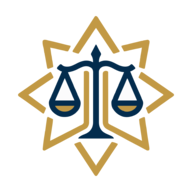
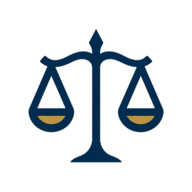
Hide reply actions until settled, add feedback to like/dislike/share
- The disclaimer footer and the per-message copy/like/dislike/share
  row were rendering the moment a message existed, including the
  "searching..."/streaming phase before any real answer text — both
  now wait until the reply is no longer streaming and actually has
  text.
- Thumbs up/down now toggle a visible active state (filled icon,
  tinted background); clicking the active one again clears it. Share
  now does something: native share sheet when available, clipboard
  copy with the same checkmark flash as Copy otherwise. Previously
  only Copy gave any feedback at all.
- Reduced the top padding above the first message — a prior pass
  added a bit too much.
- PWA/home-screen icons (manifest icons, apple touch icon) now use
  the same scale-only mark on a round backplate as the browser
  favicon, instead of the old full 8-point-star design.

Claude-Session: https://claude.ai/code/session_016AsFwuHiPJWX6tJAgmt5pq

Changed region(s): [[0.0938, 0.0625, 0.9062, 0.9375]]

diff --git a/components/MessageBubble.tsx b/components/MessageBubble.tsx
@@ -359,6 +359,8 @@ function GeneratingIndicator({ statusLabel }: { statusLabel?: StreamStage | null
 export const MessageBubble = memo(function MessageBubble({ message, onCitationClick, onAttachmentClick }: MessageBubbleProps) {
   const isUser = message.role === 'user';
   const [isCopied, setIsCopied] = useState(false);
+  const [feedback, setFeedback] = useState<'up' | 'down' | null>(null);
+  const [isShared, setIsShared] = useState(false);
 
   const handleCopy = async () => {
     try {
@@ -368,6 +370,25 @@ export const MessageBubble = memo(function MessageBubble({ message, onCitationCl
     } catch {
       // Clipboard API requires a secure context (HTTPS)
       console.warn('[MessageBubble] Copy failed — secure context required');
+    }
+  };
+
+  const handleFeedback = (value: 'up' | 'down') => {
+    // A toggle, not a one-shot vote — clicking the active choice again clears it.
+    setFeedback(prev => (prev === value ? null : value));
+  };
+
+  const handleShare = async () => {
+    try {
+      if (typeof navigator !== 'undefined' && navigator.share) {
+        await navigator.share({ text: message.text });
+        return;
+      }
+      await navigator.clipboard.writeText(message.text);
+      setIsShared(true);
+      setTimeout(() => setIsShared(false), 2000);
+    } catch {
+      // AbortError when the user cancels the native share sheet — not a failure.
     }
   };
 
@@ -446,8 +467,10 @@ export const MessageBubble = memo(function MessageBubble({ message, onCitationCl
           );
         })()}
 
-        {/* Action Buttons for AdvoAI */}
-        {!isUser && (
+        {/* Action Buttons for AdvoAI — hidden until the reply has actually
+            settled; showing "copy/like/share" on an empty, still-generating
+            bubble offers actions on content that doesn't exist yet. */}
+        {!isUser && !message.isStreaming && message.text && (
           <div className="mt-4 flex items-center gap-1 opacity-100 transition-opacity">
             <button
               onClick={handleCopy}
@@ -457,14 +480,39 @@ export const MessageBubble = memo(function MessageBubble({ message, onCitationCl
             >
               {isCopied ? <Check className="w-4 h-4 text-emerald-600" /> : <Copy className="w-4 h-4" />}
             </button>
-            <button className="p-1.5 text-slate-400 dark:text-slate-500 hover:text-slate-600 dark:hover:text-slate-300 hover:bg-black/5 dark:hover:bg-white/5 rounded-md transition-colors" aria-label="Mark as helpful" title="Helpful">
-              <ThumbsUp className="w-4 h-4" />
+            <button
+              onClick={() => handleFeedback('up')}
+              className={`p-1.5 rounded-md transition-colors ${
+                feedback === 'up'
+                  ? 'text-emerald-600 bg-emerald-500/10'
+                  : 'text-slate-400 dark:text-slate-500 hover:text-slate-600 dark:hover:text-slate-300 hover:bg-black/5 dark:hover:bg-white/5'
+              }`}
+              aria-pressed={feedback === 'up'}
+              aria-label="Mark as helpful"
+              title="Helpful"
+            >
+              <ThumbsUp className="w-4 h-4" fill={feedback === 'up' ? 'currentColor' : 'none'} />
             </button>
-            <button className="p-1.5 text-slate-400 dark:text-slate-500 hover:text-slate-600 dark:hover:text-slate-300 hover:bg-black/5 dark:hover:bg-white/5 rounded-md transition-colors" aria-label="Mark as not helpful" title="Not helpful">
-              <ThumbsDown className="w-4 h-4" />
+            <button
+              onClick={() => handleFeedback('down')}
+              className={`p-1.5 rounded-md transition-colors ${
+                feedback === 'down'
+                  ? 'text-red-500 bg-red-500/10'
+                  : 'text-slate-400 dark:text-slate-500 hover:text-slate-600 dark:hover:text-slate-300 hover:bg-black/5 dark:hover:bg-white/5'
+              }`}
+              aria-pressed={feedback === 'down'}
+              aria-label="Mark as not helpful"
+              title="Not helpful"
+            >
+              <ThumbsDown className="w-4 h-4" fill={feedback === 'down' ? 'currentColor' : 'none'} />
             </button>
-            <button className="p-1.5 text-slate-400 dark:text-slate-500 hover:text-slate-600 dark:hover:text-slate-300 hover:bg-black/5 dark:hover:bg-white/5 rounded-md transition-colors" aria-label="Share message" title="Share">
-              <Share2 className="w-4 h-4" />
+            <button
+              onClick={handleShare}
+              className="p-1.5 text-slate-400 dark:text-slate-500 hover:text-slate-600 dark:hover:text-slate-300 hover:bg-black/5 dark:hover:bg-white/5 rounded-md transition-colors"
+              aria-label="Share message"
+              title="Share"
+            >
+              {isShared ? <Check className="w-4 h-4 text-emerald-600" /> : <Share2 className="w-4 h-4" />}
             </button>
           </div>
         )}

diff --git a/components/ChatArea.tsx b/components/ChatArea.tsx
@@ -648,7 +648,7 @@ export function ChatArea({
       <div
         ref={scrollContainerRef}
         onScroll={handleScroll}
-        className="flex-1 overflow-y-auto overflow-x-hidden min-h-0 px-3 md:px-8 py-4 md:py-8 z-0 relative flex flex-col pt-32"
+        className="flex-1 overflow-y-auto overflow-x-hidden min-h-0 px-3 md:px-8 py-4 md:py-8 z-0 relative flex flex-col pt-24"
       >
         {!isHydrated ? (
           <div className="flex-1 flex items-center justify-center">
@@ -728,9 +728,14 @@ export function ChatArea({
             </AnimatePresence>
 
             <div ref={messagesEndRef} />
-            <div className="text-center text-[10px] md:text-xs text-neutral-400 dark:text-neutral-500 pt-8 pb-4">
-              {t('chat.footer_disclaimer', { chatbot_name: t('chatbot_name') })}
-            </div>
+            {/* Hidden until the reply actually settles — showing it (and the
+                per-message action row) while still searching/streaming reads
+                as commenting on an answer that doesn't exist yet. */}
+            {!isLoading && !messages.some(m => m.isStreaming) && (
+              <div className="text-center text-[10px] md:text-xs text-neutral-400 dark:text-neutral-500 pt-8 pb-4">
+                {t('chat.footer_disclaimer', { chatbot_name: t('chatbot_name') })}
+              </div>
+            )}
           </div>
         )}
       </div>
